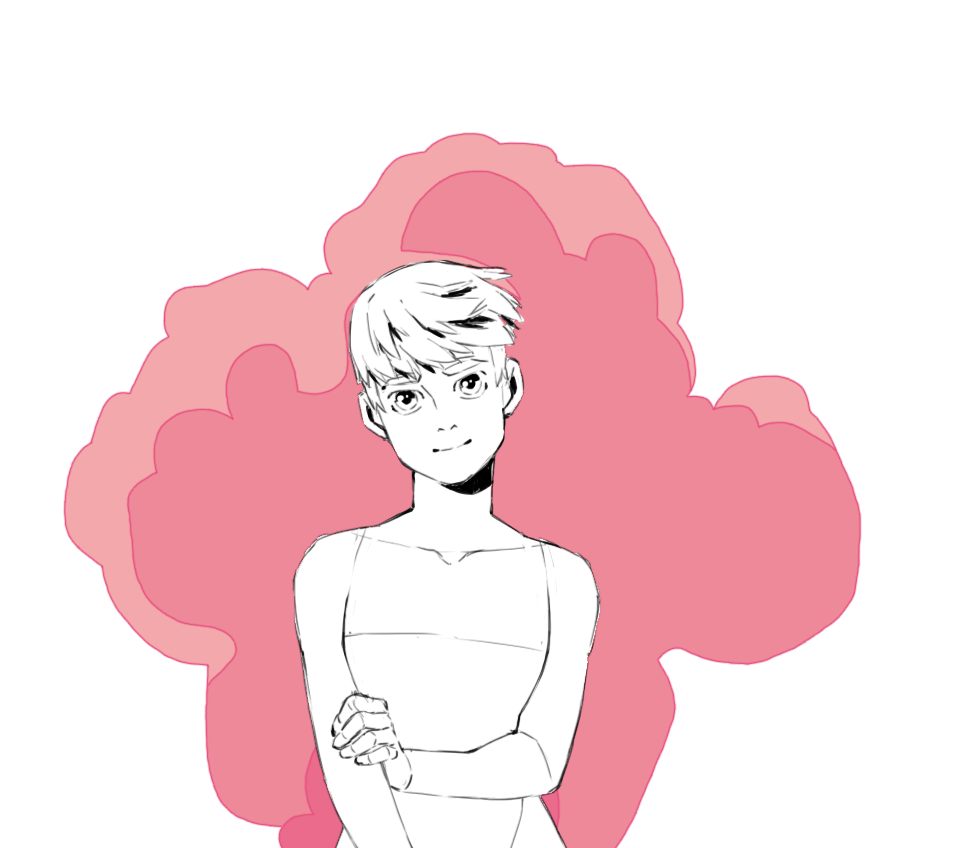
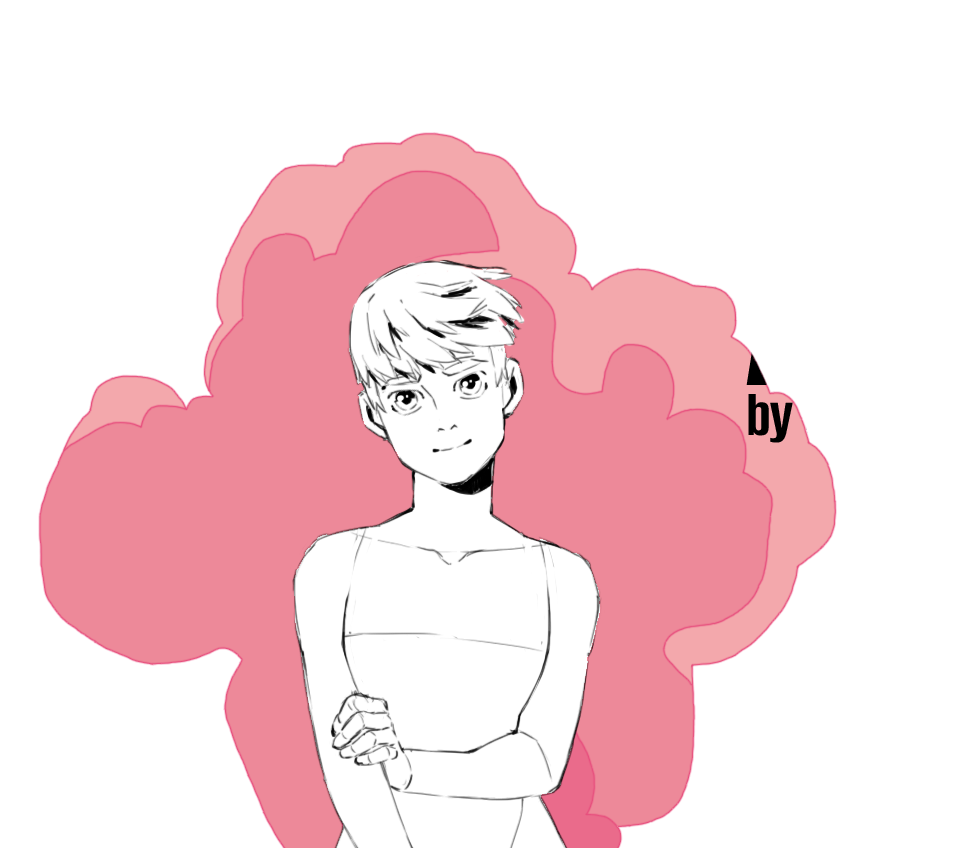
Добавлена иллюсрация на стартовый экран

Changed region(s): [[0.0312, 0.1533, 0.9062, 1.0]]

diff --git a/src/scripts/script.js b/src/scripts/script.js
@@ -996,6 +996,39 @@ const hideStartScreen = () => {
   animationBoom();
 };
 
+const animateLoopColorChange = (id, param, start = '00 00 00', end = 'ff ff ff', time = 1) => {
+  const elem = document.getElementById(id);
+  const parseStart = start.split(' ').map((item) => parseInt(item, 16));
+  const parseEnd = end.split(' ').map((item) => parseInt(item, 16));
+  let currStart = parseStart;
+  let currEnd = parseEnd;
+  let tmp;
+
+  let currPos = [...parseStart];
+  let startTime = performance.now();
+  let timeDiff = 0;
+
+  const animation = () => {
+    timeDiff = performance.now() - startTime;
+
+    if (timeDiff >= time * 1000) {
+      elem.style[param] = `rgb(${currEnd.join(' ')})`;
+      startTime = performance.now();
+      tmp = currEnd;
+      currEnd = currStart;
+      currStart = tmp;
+    } else {
+      for (let i = 0; i < currPos.length; i += 1){
+        currPos[i] = currStart[i] + (currEnd[i] - currStart[i]) * (timeDiff / (time * 1000));
+      }
+      elem.style[param] = `rgb(${currPos.join(' ')})`;
+      console.log(currPos)
+    }
+    requestAnimationFrame(animation);
+  }
+  animation();
+};
+
 const startDay = (file) => {
   readFile(file, () => {
     currLine = 0;
@@ -1010,6 +1043,7 @@ const startDemonstration = () => {
   animateArrow('nv-arrow');
   animateArrow('dt-arrow1');
   animateArrow('dt-arrow2');
+  //animateLoopColorChange('st-text', 'color', 'ff ff ff', 'e7 4e 7d', 1);
   animateParamChangeNoFlags('protector', 'opacity', '', 1, 0, 0.5, () => {
     setParam('protector', 'display', 'none');
     setParam('protector', 'zIndex', '-100');

diff --git a/src/styles/start.css b/src/styles/start.css
@@ -1,6 +1,7 @@
 #start-screen{
     display: flex;
-    justify-content: center;
+    flex-direction: column;
+    justify-content: end;
     align-items: center;
     background-color: transparent;
     z-index: 2500;
@@ -18,9 +19,17 @@
     width: 600px;
     height: 530px;
     position: absolute;
-    left: -100px;
+    left: -110px;
     bottom: 0px;
     background-image: url('../images/interface/start/boom2/1.png');
+}
+#st-text{
+    font-family: 'AlumniSans';
+    font-weight: 700;
+    font-size: 20px;
+    line-height: 16px;
+    color: #ffffff;
+    margin-bottom: 15px;
 }
 
 #st-image-keeper{

diff --git a/index.html b/index.html
@@ -130,6 +130,7 @@
       <div id="st-image-keeper"></div>
       <div id="st-boom"></div>
       <div id="st-click" class="screen-size" onclick="hideStartScreen()"></div>
+      <div id="st-text"></div>
     </div>
     <div id="st-flame" class="screen-size"></div>
   </div>
